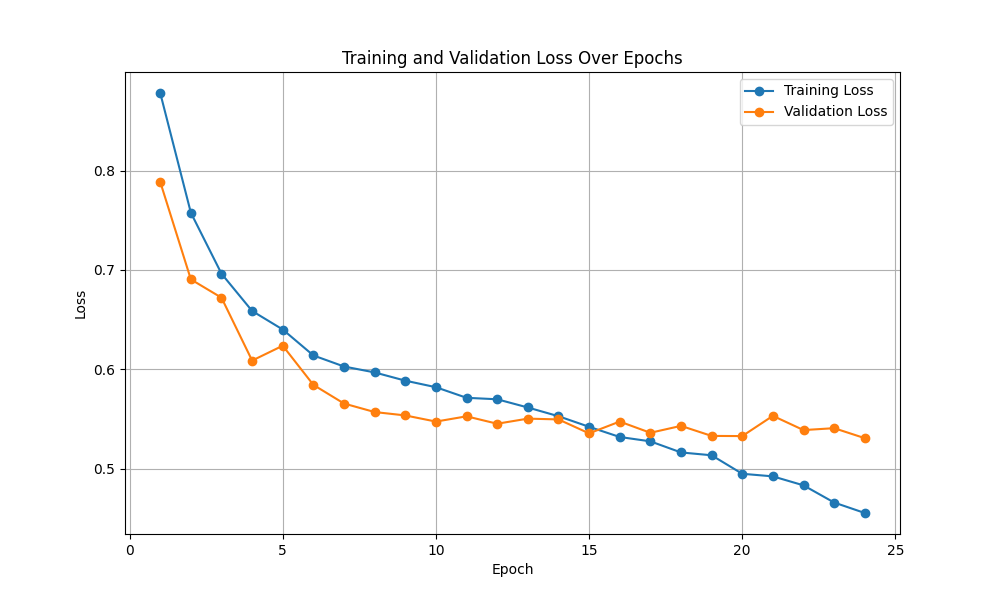
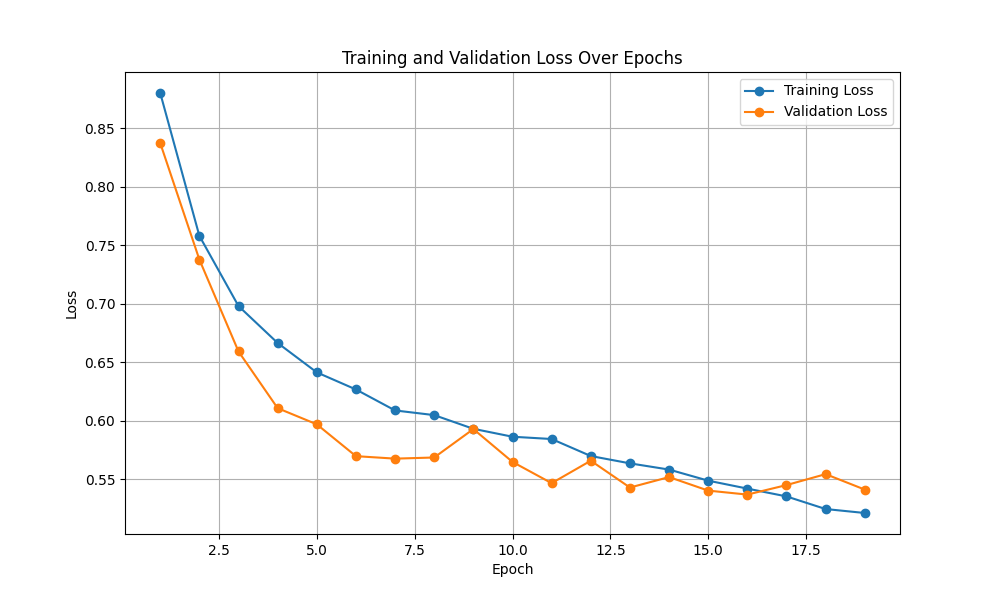
Training with new augmentation. OutOfMemory for SMAC3 CV

diff --git a/vocal_assistant/emotion/predict_emotion.py b/vocal_assistant/emotion/predict_emotion.py
@@ -107,7 +107,7 @@ class EmotionDataset(Dataset):
 
 
     def retrieve_random_waveform(self, wav_data):
-        random_wav = self.df.iloc[random.randint(0, len(self.df))]["wav_file"]
+        random_wav = self.df.iloc[random.randint(0, len(self.df)-1)]["wav_file"]
 
         return (torch.randn_like(torch.from_numpy(wav_data)) * 0.01).numpy() if len(random_wav) < len(wav_data) \
             else random_wav[:len(wav_data)]
